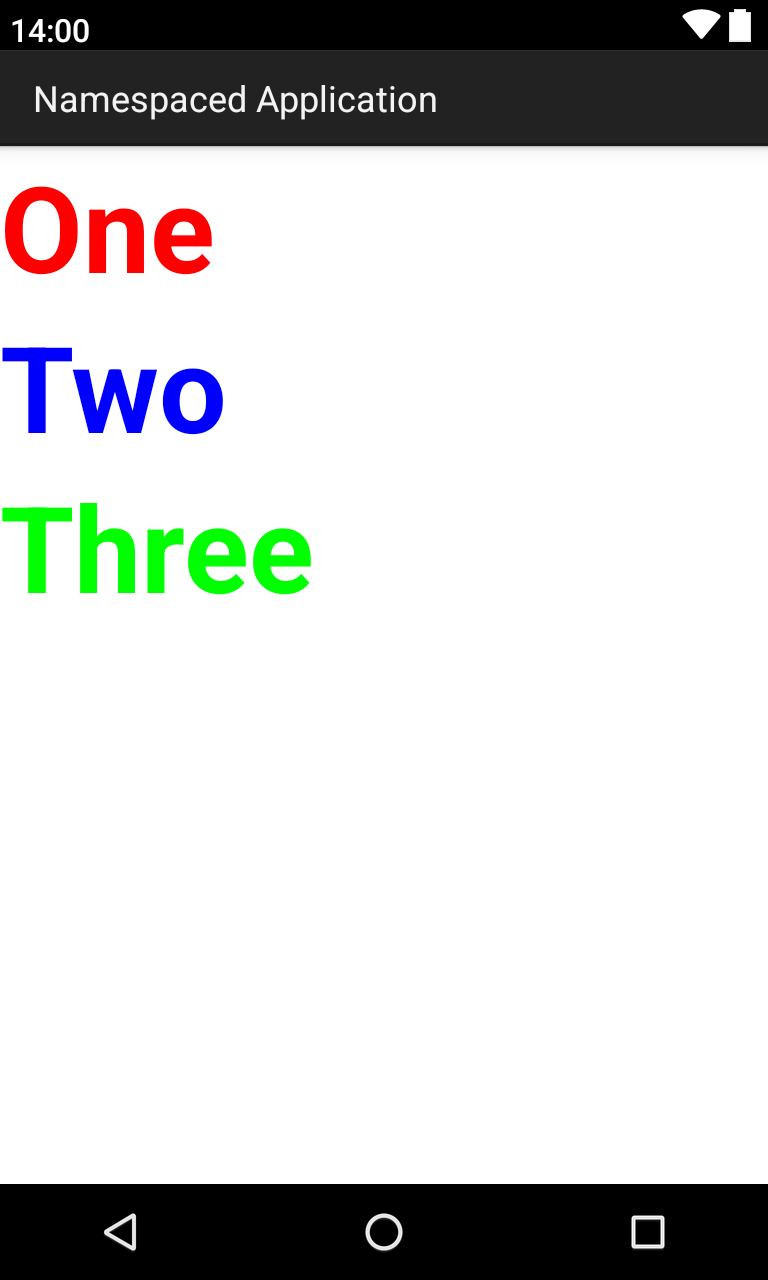
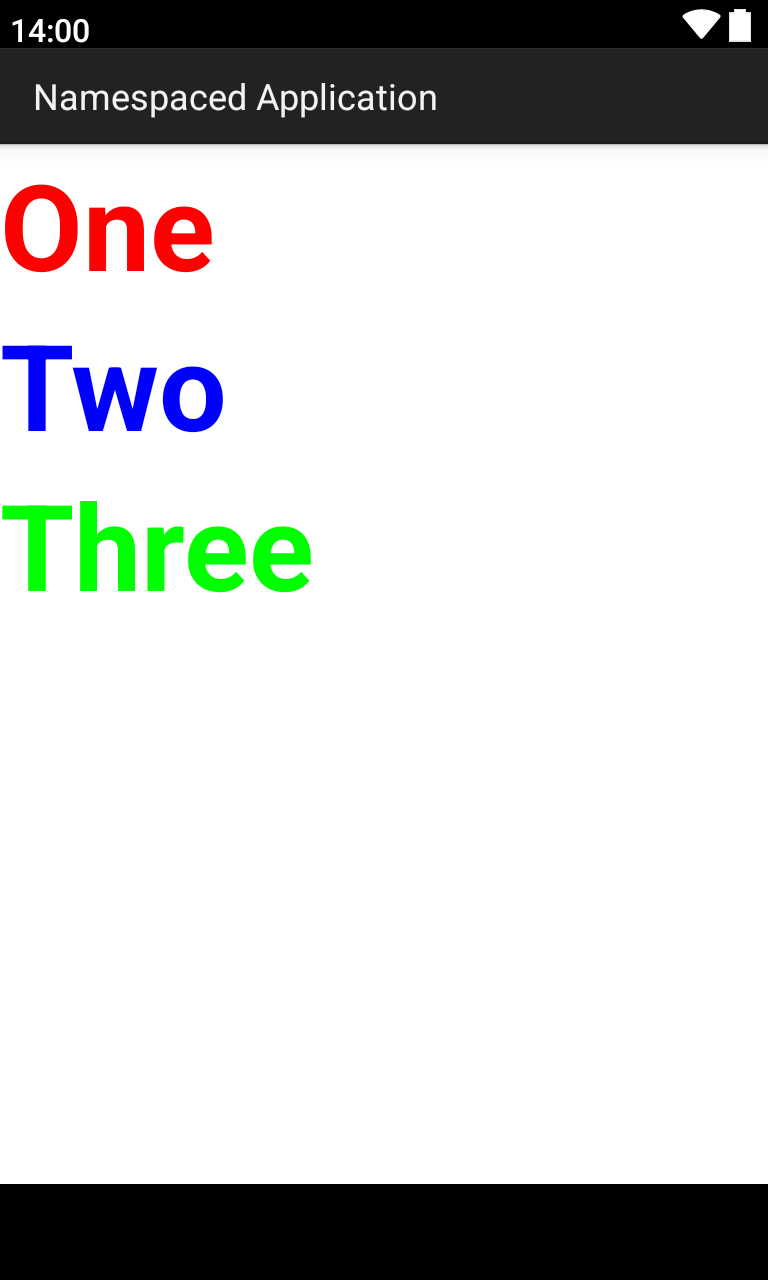
Update tests following layoutlib update
The system UI changes in layoutlib require some tests to be updated.

Bug: N/A
Test: test code

diff --git a/compose-designer/testSrc/com/android/tools/idea/compose/gradle/preview/AccessibilityModelUpdaterTest.kt b/compose-designer/testSrc/com/android/tools/idea/compose/gradle/preview/AccessibilityModelUpdaterTest.kt
@@ -138,7 +138,7 @@ class AccessibilityModelUpdaterTest {
     assertThat(children.size).isGreaterThan(0)
     assertNotEquals(-1, children[0].accessibilityId)
     assertEquals(306, children[0].w)
-    assertEquals(191, children[0].y)
+    assertEquals(189, children[0].y)
 
     children = children[0].children
     assertEquals(2, children.size)
@@ -147,7 +147,7 @@ class AccessibilityModelUpdaterTest {
     assertEquals(0, textViewComponent.childCount)
     assertNotEquals(-1, textViewComponent.accessibilityId)
     assertEquals(141, textViewComponent.w)
-    assertEquals(191, textViewComponent.y)
+    assertEquals(189, textViewComponent.y)
     val textViewNavigatable = textViewComponent.navigatable as OpenFileDescriptor
     assertEquals(1158, textViewNavigatable.offset)
     assertEquals("MainActivity.kt", textViewNavigatable.file.name)
@@ -159,7 +159,7 @@ class AccessibilityModelUpdaterTest {
     assertEquals(0, buttonTextViewComponent.childCount)
     assertNotEquals(-1, buttonTextViewComponent.accessibilityId)
     assertEquals(222, buttonTextViewComponent.w)
-    assertEquals(287, buttonTextViewComponent.y)
+    assertEquals(285, buttonTextViewComponent.y)
     val buttonTextViewNavigatable = buttonTextViewComponent.navigatable as OpenFileDescriptor
     assertEquals(1225, buttonTextViewNavigatable.offset)
     assertEquals("MainActivity.kt", buttonTextViewNavigatable.file.name)
@@ -168,7 +168,7 @@ class AccessibilityModelUpdaterTest {
     assertEquals(0, buttonComponent.childCount)
     assertNotEquals(-1, buttonComponent.accessibilityId)
     assertEquals(306, buttonComponent.w)
-    assertEquals(264, buttonComponent.y)
+    assertEquals(262, buttonComponent.y)
     val buttonNavigatable = buttonComponent.navigatable as OpenFileDescriptor
     assertEquals(1225, buttonNavigatable.offset)
     assertEquals("MainActivity.kt", buttonNavigatable.file.name)
